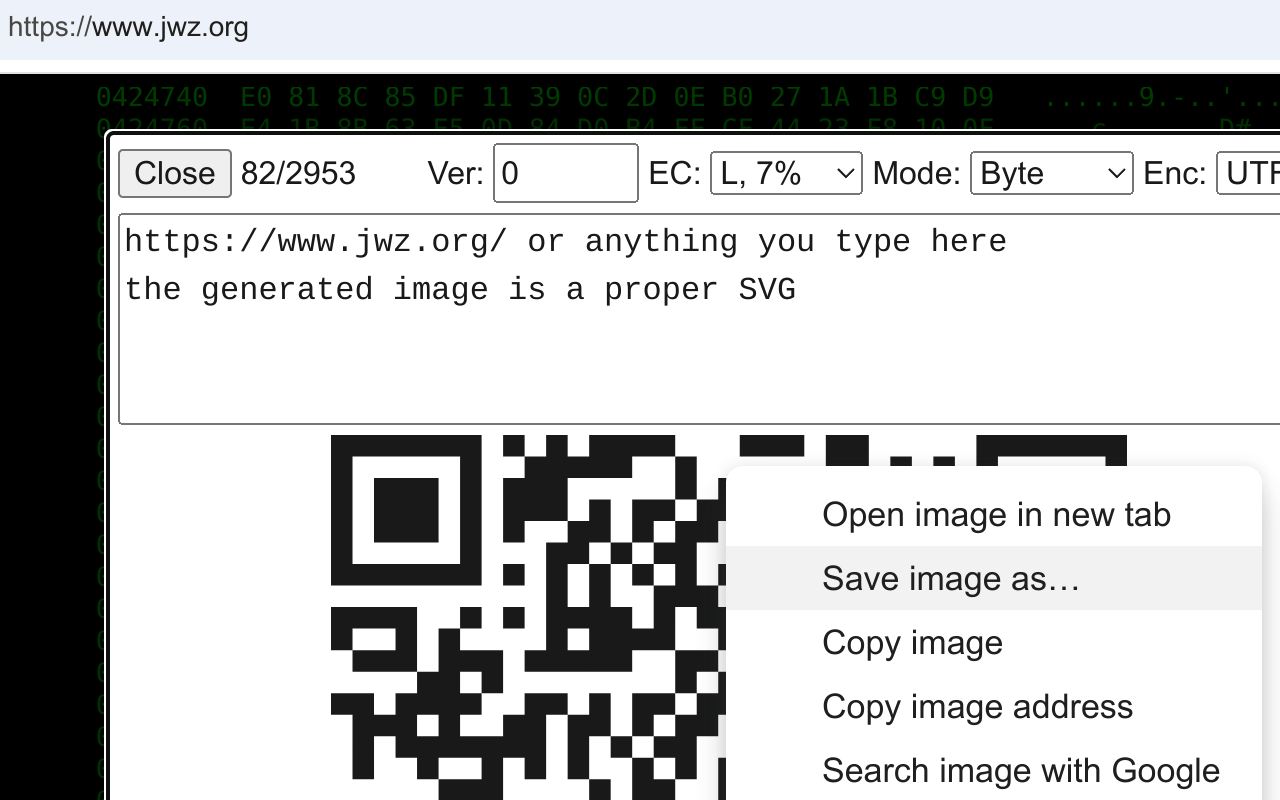
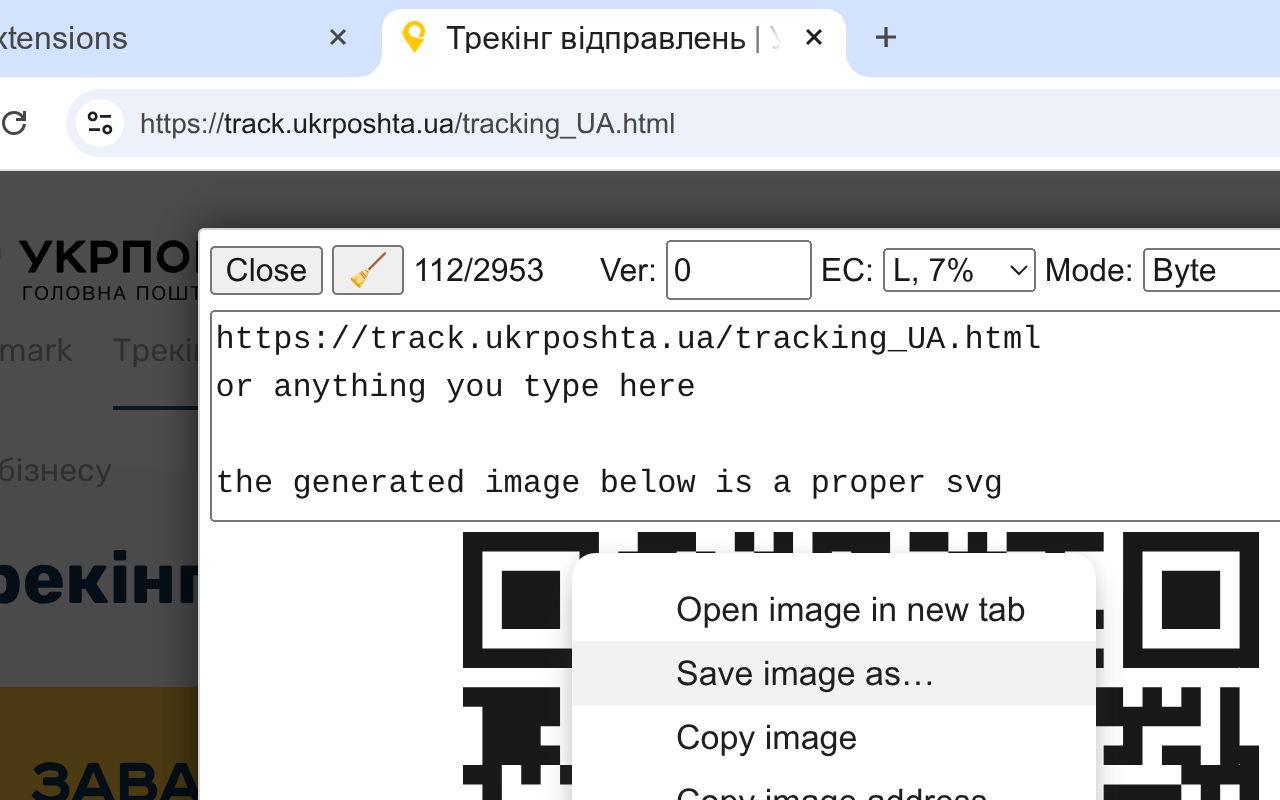
add 'crear' button

diff --git a/src/content_script.js b/src/content_script.js
@@ -48,6 +48,7 @@ class Dialog {
 	let ctrl = {
 	    submit: () => btn_submit.click(),
 	    close: this.$('#ctrl__close'),
+	    clear: this.$('#ctrl__clear'),
 	    size: this.$('#ctrl__size'),
 	    // TODO: next 4 save/get their values to/from storage
 	    type_num: this.$('#type_num'),
@@ -57,6 +58,10 @@ class Dialog {
 	}
 
 	ctrl.close.onclick = () => this.toggle()
+        ctrl.clear.onclick = () => {
+            this.input.select()
+            document.execCommand('delete') // preserve undo stack
+        }
 	ctrl.type_num.oninput = () => (this.stat_upd(), ctrl.submit())
 	;['corr_lev','mode','multibyte'].forEach( v => {
 	    ctrl[v].onchange = () => (this.stat_upd(), ctrl.submit())
@@ -66,9 +71,6 @@ class Dialog {
 	this.input.addEventListener('input', () => upd())
 	let stat = debounce(() => this.stat_upd(), 300)
 	this.input.addEventListener('input', () => stat())
-	this.input.onkeydown = evt => {
-	    if (evt.ctrlKey && evt.key === 'c') this.value = ''
-	}
 
 	return ctrl
     }

diff --git a/src/dialog.html b/src/dialog.html
@@ -2,6 +2,7 @@
   <form>
     <div id="ctrl">
       <input type="button" id="ctrl__close" value="Close">
+      <input type="button" id="ctrl__clear" value="🧹" title="Clear">
 
       <span id="ctrl__size" title="Input length: current/max">?/?</span>
 
